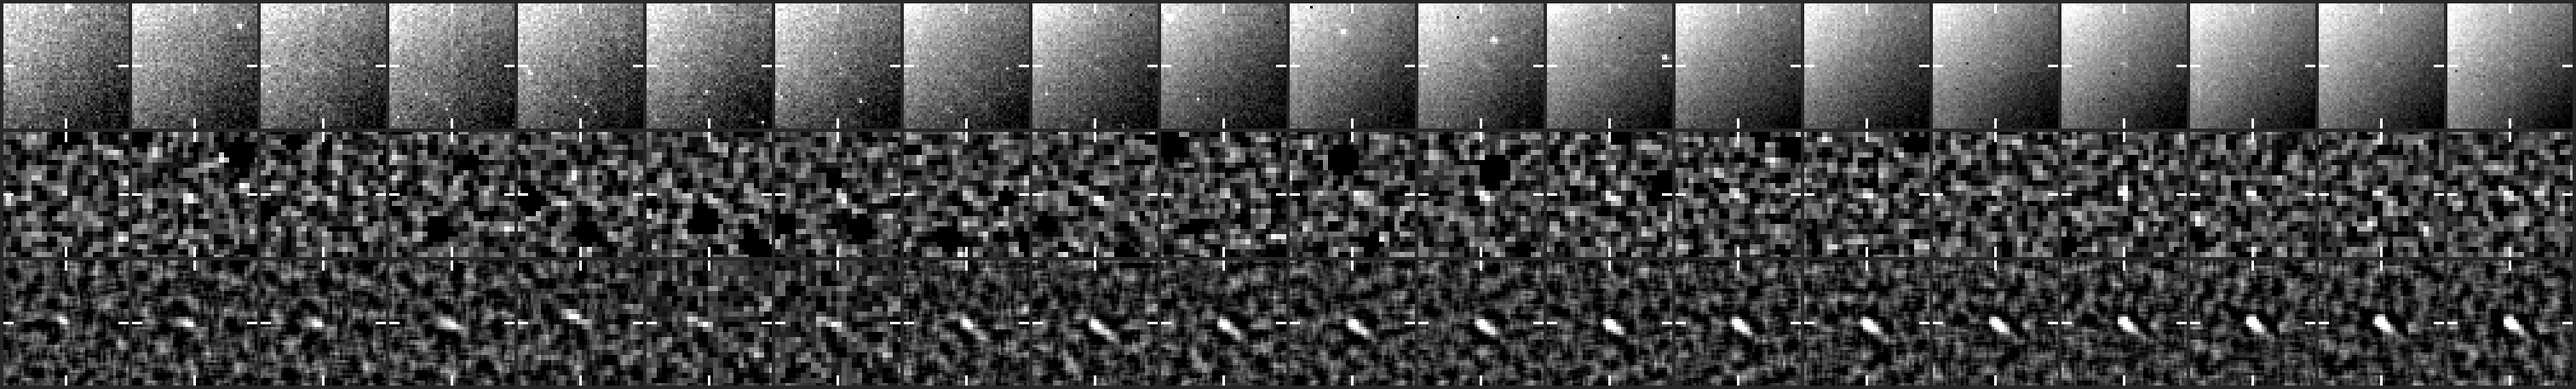
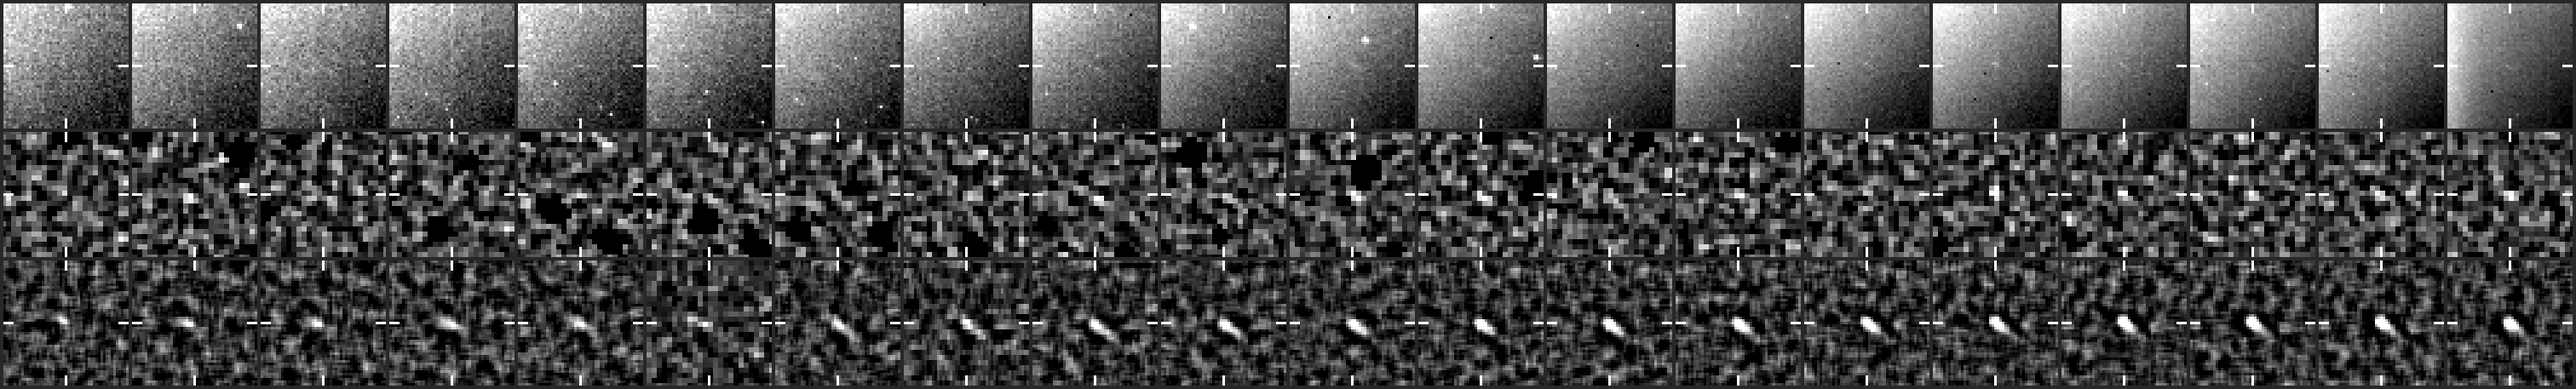
Live find 20261102T1115_1748_1520: hunter's package

Changed region(s): [[0.4352, 0.0, 1.0, 1.0], [0.2798, 0.0, 0.4041, 1.0], [0.1865, 0.0, 0.2487, 1.0]]

diff --git a/results/ccor1/live-finds/20261102T1115_1748_1520/index.html b/results/ccor1/live-finds/20261102T1115_1748_1520/index.html
@@ -1,7 +1,7 @@
 <!doctype html>
 <html lang="en"><head><meta charset="utf-8"><meta name="viewport" content="width=device-width,initial-scale=1"><title>CCOR-1 candidate 20261102T1115_1748_1520</title>
 <meta property="og:title" content="CCOR-1 candidate 20261102T1115_1748_1520">
-<meta property="og:description" content="24 frames, 2026-11-02 11:15 to 17:00 UTC, peak 21 sigma, brightening.">
+<meta property="og:description" content="26 frames, 2026-11-02 11:15 to 17:30 UTC, peak 21 sigma, brightening.">
 <meta property="og:type" content="article">
 <meta name="twitter:card" content="summary_large_image">
 <meta property="og:url" content="https://scottholdren.github.io/sungrazer/results/ccor1/live-finds/20261102T1115_1748_1520/">
@@ -12,13 +12,13 @@
 <style>body{background:#0b0e14;color:#e6e6e6;font:15px/1.5 system-ui,sans-serif;max-width:980px;margin:0 auto;padding:16px}img{max-width:100%;height:auto;display:block;margin:8px 0}table{border-collapse:collapse;font-size:14px}th,td{border-bottom:1px solid #2a3140;padding:3px 10px;text-align:left}pre{background:#141a25;padding:10px;overflow:auto}a{color:#9ecbff}h1{font-size:22px}h2{font-size:17px;margin-top:28px;color:#9ecbff}code{background:#141a25;padding:0 4px}</style></head>
 <body>
 <h1>CCOR-1 candidate 20261102T1115_1748_1520</h1>
-<p><b>24 frames, 2026-11-02 11:15 to 17:00 UTC, peak 21 sigma, brightening.</b></p>
-<ul><li>Detected by the kreutz shift-and-stack search (8 frames stacked along the fitted motion); status candidate, alert tier since 16:00 UTC.</li><li>Motion (-7.1, -3.8) px per 15-min frame, 8.1 px/frame.</li><li>Last position 755 px from the Sun at position angle -40 deg, heading 12 deg off the Sun direction (Kreutz comets in CCOR-1 arrive from the lower right, position angle -10 to -45 deg, and head within ~20 deg of the Sun).</li><li>No CCOR-1 report matches it on the Sungrazer site.</li></ul>
+<p><b>26 frames, 2026-11-02 11:15 to 17:30 UTC, peak 21 sigma, brightening.</b></p>
+<ul><li>Detected by the kreutz shift-and-stack search (8 frames stacked along the fitted motion); status candidate, alert tier since 16:00 UTC.</li><li>Motion (-7.1, -3.8) px per 15-min frame, 8.1 px/frame.</li><li>Last position 739 px from the Sun at position angle -40 deg, heading 12 deg off the Sun direction (Kreutz comets in CCOR-1 arrive from the lower right, position angle -10 to -45 deg, and head within ~20 deg of the Sun).</li><li>No CCOR-1 report matches it on the Sungrazer site.</li></ul>
 <h2>Movie</h2>
 <p>A fixed patch of sky at 2x the camera's resolution: significance maps (stars and corona modelled out), the last 8 maps added along the fitted motion, black below 2.5 sigma. The ring rides the fitted path: green on frames with a measured hit, yellow before the first hit. A real object crosses the patch inside the ring; noise does not travel.</p>
 <p><img alt="movie" src="movie.gif"></p>
 <h2>Full field</h2>
-<p>The Sun's surroundings and the object's path at half resolution, the last frames up to the newest hit: each frame minus the minimum of the previous 24 hours (streamers and stars stay, the static corona and glare cancel), lightly smoothed, no stacking, on a linear scale from -1 sigma of the frame's noise (so the noise shows as grain). The crosshair follows the fitted path, yellow on a measured hit. For where the object sits in the corona and what else is moving; a faint object is easier to judge in the stacked patch above.</p>
+<p>The object's quadrant at half resolution, from just outside the occulter out to the field edge, the last frames up to the newest hit: each frame minus the minimum of the previous 24 hours (streamers and stars stay, the static corona and glare cancel), lightly smoothed, no stacking, on a linear scale from -1 sigma of the frame's noise (so the noise shows as grain). The crosshair follows the fitted path, yellow on a measured hit. For where the object sits in the corona and what else is moving; a faint object is easier to judge in the stacked patch above.</p>
 <p><img alt="full field" src="field.gif"></p>
 <h2>Contact sheet</h2>
 <p>Top: raw frame. Middle: significance map of that frame. Bottom: the detector's view, the last 8 maps stacked along the motion. Ticks mark the predicted position; a comet is a steady dot on the ticks.</p>
@@ -26,7 +26,7 @@
 <p><img alt="stacked cutout around the newest hit" src="thumb.png"></p>
 <h2>Positions</h2>
 <p>2048x1920 full-resolution frame, origin upper left, x right, y down, 0-based (the Sungrazer 'Upper Left' convention). They are the centre of the stacked detection predicted from the fitted motion, good to about a pixel, not per-frame centroids; hunters' measurements tend to fall ~1 px right and up of these.</p>
-<table><tr><th>date</th><th>HHMM</th><th>x</th><th>y</th><th>sigma</th></tr><tr><td>2026-11-02</td><td>1115</td><td>1748</td><td>1520</td><td>8.0</td></tr><tr><td>2026-11-02</td><td>1130</td><td>1740</td><td>1516</td><td>8.5</td></tr><tr><td>2026-11-02</td><td>1145</td><td>1732</td><td>1512</td><td>9.2</td></tr><tr><td>2026-11-02</td><td>1200</td><td>1724</td><td>1508</td><td>8.9</td></tr><tr><td>2026-11-02</td><td>1215</td><td>1718</td><td>1504</td><td>8.8</td></tr><tr><td>2026-11-02</td><td>1230</td><td>1712</td><td>1500</td><td>9.4</td></tr><tr><td>2026-11-02</td><td>1245</td><td>1704</td><td>1498</td><td>8.9</td></tr><tr><td>2026-11-02</td><td>1300</td><td>1696</td><td>1494</td><td>9.1</td></tr><tr><td>2026-11-02</td><td>1315</td><td>1690</td><td>1490</td><td>10.9</td></tr><tr><td>2026-11-02</td><td>1330</td><td>1684</td><td>1486</td><td>11.8</td></tr><tr><td>2026-11-02</td><td>1345</td><td>1676</td><td>1482</td><td>10.6</td></tr><tr><td>2026-11-02</td><td>1400</td><td>1670</td><td>1480</td><td>11.7</td></tr><tr><td>2026-11-02</td><td>1415</td><td>1662</td><td>1474</td><td>14.1</td></tr><tr><td>2026-11-02</td><td>1430</td><td>1656</td><td>1470</td><td>12.4</td></tr><tr><td>2026-11-02</td><td>1445</td><td>1648</td><td>1468</td><td>11.8</td></tr><tr><td>2026-11-02</td><td>1500</td><td>1640</td><td>1464</td><td>11.9</td></tr><tr><td>2026-11-02</td><td>1515</td><td>1634</td><td>1460</td><td>12.1</td></tr><tr><td>2026-11-02</td><td>1530</td><td>1626</td><td>1456</td><td>13.4</td></tr><tr><td>2026-11-02</td><td>1545</td><td>1620</td><td>1452</td><td>13.1</td></tr><tr><td>2026-11-02</td><td>1600</td><td>1612</td><td>1448</td><td>17.9</td></tr><tr><td>2026-11-02</td><td>1615</td><td>1604</td><td>1444</td><td>18.7</td></tr><tr><td>2026-11-02</td><td>1630</td><td>1598</td><td>1440</td><td>16.7</td></tr><tr><td>2026-11-02</td><td>1645</td><td>1590</td><td>1436</td><td>20.6</td></tr><tr><td>2026-11-02</td><td>1700</td><td>1582</td><td>1432</td><td>19.9</td></tr></table>
+<table><tr><th>date</th><th>HHMM</th><th>x</th><th>y</th><th>sigma</th></tr><tr><td>2026-11-02</td><td>1115</td><td>1748</td><td>1520</td><td>8.0</td></tr><tr><td>2026-11-02</td><td>1130</td><td>1740</td><td>1516</td><td>8.5</td></tr><tr><td>2026-11-02</td><td>1145</td><td>1732</td><td>1512</td><td>9.2</td></tr><tr><td>2026-11-02</td><td>1200</td><td>1724</td><td>1508</td><td>8.9</td></tr><tr><td>2026-11-02</td><td>1215</td><td>1718</td><td>1504</td><td>8.8</td></tr><tr><td>2026-11-02</td><td>1230</td><td>1712</td><td>1500</td><td>9.4</td></tr><tr><td>2026-11-02</td><td>1245</td><td>1704</td><td>1498</td><td>8.9</td></tr><tr><td>2026-11-02</td><td>1300</td><td>1696</td><td>1494</td><td>9.1</td></tr><tr><td>2026-11-02</td><td>1315</td><td>1690</td><td>1490</td><td>10.9</td></tr><tr><td>2026-11-02</td><td>1330</td><td>1684</td><td>1486</td><td>11.8</td></tr><tr><td>2026-11-02</td><td>1345</td><td>1676</td><td>1482</td><td>10.6</td></tr><tr><td>2026-11-02</td><td>1400</td><td>1670</td><td>1480</td><td>11.7</td></tr><tr><td>2026-11-02</td><td>1415</td><td>1662</td><td>1474</td><td>14.1</td></tr><tr><td>2026-11-02</td><td>1430</td><td>1656</td><td>1470</td><td>12.4</td></tr><tr><td>2026-11-02</td><td>1445</td><td>1648</td><td>1468</td><td>11.8</td></tr><tr><td>2026-11-02</td><td>1500</td><td>1640</td><td>1464</td><td>11.9</td></tr><tr><td>2026-11-02</td><td>1515</td><td>1634</td><td>1460</td><td>12.1</td></tr><tr><td>2026-11-02</td><td>1530</td><td>1626</td><td>1456</td><td>13.4</td></tr><tr><td>2026-11-02</td><td>1545</td><td>1620</td><td>1452</td><td>13.1</td></tr><tr><td>2026-11-02</td><td>1600</td><td>1612</td><td>1448</td><td>17.9</td></tr><tr><td>2026-11-02</td><td>1615</td><td>1604</td><td>1444</td><td>18.7</td></tr><tr><td>2026-11-02</td><td>1630</td><td>1598</td><td>1440</td><td>16.7</td></tr><tr><td>2026-11-02</td><td>1645</td><td>1590</td><td>1436</td><td>20.6</td></tr><tr><td>2026-11-02</td><td>1700</td><td>1582</td><td>1432</td><td>19.9</td></tr><tr><td>2026-11-02</td><td>1715</td><td>1578</td><td>1428</td><td>15.7</td></tr><tr><td>2026-11-02</td><td>1730</td><td>1568</td><td>1424</td><td>20.8</td></tr></table>
 <p>Form layout (HHMM x y):</p>
 <pre>1115 1748 1520
 1130 1740 1516
@@ -51,9 +51,11 @@
 1615 1604 1444
 1630 1598 1440
 1645 1590 1436
-1700 1582 1432</pre>
+1700 1582 1432
+1715 1578 1428
+1730 1568 1424</pre>
 <h2>Movie frames</h2>
 <p>Sigma inside the ring on the fitted position vs the brightest 0.1% of the whole patch. A real object sits clearly above the tail.</p>
-<table><tr><th>frame</th><th>ring</th><th>tail</th><th></th></tr><tr><td>20261102T101525</td><td>10.1</td><td>5.3</td><td></td></tr><tr><td>20261102T103025</td><td>8.5</td><td>5.3</td><td></td></tr><tr><td>20261102T104525</td><td>8.7</td><td>5.1</td><td></td></tr><tr><td>20261102T110025</td><td>7.8</td><td>5.2</td><td></td></tr><tr><td>20261102T111525</td><td>8.4</td><td>5.3</td><td>hit</td></tr><tr><td>20261102T113025</td><td>10.5</td><td>5.0</td><td>hit</td></tr><tr><td>20261102T114525</td><td>10.5</td><td>5.2</td><td>hit</td></tr><tr><td>20261102T120025</td><td>9.0</td><td>5.3</td><td>hit</td></tr><tr><td>20261102T121525</td><td>9.7</td><td>5.1</td><td>hit</td></tr><tr><td>20261102T123025</td><td>9.6</td><td>5.0</td><td>hit</td></tr><tr><td>20261102T124525</td><td>9.7</td><td>5.5</td><td>hit</td></tr><tr><td>20261102T130025</td><td>12.9</td><td>5.4</td><td>hit</td></tr><tr><td>20261102T131525</td><td>12.0</td><td>5.2</td><td>hit</td></tr><tr><td>20261102T133025</td><td>12.6</td><td>5.3</td><td>hit</td></tr><tr><td>20261102T134525</td><td>14.7</td><td>5.2</td><td>hit</td></tr><tr><td>20261102T140025</td><td>13.4</td><td>5.4</td><td>hit</td></tr><tr><td>20261102T141525</td><td>16.0</td><td>5.5</td><td>hit</td></tr><tr><td>20261102T143025</td><td>11.3</td><td>5.3</td><td>hit</td></tr><tr><td>20261102T144525</td><td>14.4</td><td>5.5</td><td>hit</td></tr><tr><td>20261102T150025</td><td>13.7</td><td>5.3</td><td>hit</td></tr><tr><td>20261102T151525</td><td>16.0</td><td>5.6</td><td>hit</td></tr><tr><td>20261102T153025</td><td>15.5</td><td>5.3</td><td>hit</td></tr><tr><td>20261102T154525</td><td>18.9</td><td>5.6</td><td>hit</td></tr><tr><td>20261102T160025</td><td>20.3</td><td>5.2</td><td>hit</td></tr><tr><td>20261102T161525</td><td>20.0</td><td>5.2</td><td>hit</td></tr><tr><td>20261102T163025</td><td>22.1</td><td>5.1</td><td>hit</td></tr><tr><td>20261102T164525</td><td>17.5</td><td>5.3</td><td>hit</td></tr><tr><td>20261102T170025</td><td>19.6</td><td>5.3</td><td>hit</td></tr></table>
-<p><i>Written 2026-11-02 17:48 UTC.</i></p>
+<table><tr><th>frame</th><th>ring</th><th>tail</th><th></th></tr><tr><td>20261102T101525</td><td>7.7</td><td>5.3</td><td></td></tr><tr><td>20261102T103025</td><td>10.2</td><td>5.2</td><td></td></tr><tr><td>20261102T104525</td><td>7.6</td><td>5.2</td><td></td></tr><tr><td>20261102T110025</td><td>9.4</td><td>5.1</td><td></td></tr><tr><td>20261102T111525</td><td>8.2</td><td>5.4</td><td>hit</td></tr><tr><td>20261102T113025</td><td>7.8</td><td>5.3</td><td>hit</td></tr><tr><td>20261102T114525</td><td>11.0</td><td>5.2</td><td>hit</td></tr><tr><td>20261102T120025</td><td>9.7</td><td>5.3</td><td>hit</td></tr><tr><td>20261102T121525</td><td>10.6</td><td>5.2</td><td>hit</td></tr><tr><td>20261102T123025</td><td>9.8</td><td>5.3</td><td>hit</td></tr><tr><td>20261102T124525</td><td>11.1</td><td>5.2</td><td>hit</td></tr><tr><td>20261102T130025</td><td>9.9</td><td>5.4</td><td>hit</td></tr><tr><td>20261102T131525</td><td>13.1</td><td>5.2</td><td>hit</td></tr><tr><td>20261102T133025</td><td>11.0</td><td>5.1</td><td>hit</td></tr><tr><td>20261102T134525</td><td>14.0</td><td>5.2</td><td>hit</td></tr><tr><td>20261102T140025</td><td>15.9</td><td>5.3</td><td>hit</td></tr><tr><td>20261102T141525</td><td>13.5</td><td>5.5</td><td>hit</td></tr><tr><td>20261102T143025</td><td>15.3</td><td>5.4</td><td>hit</td></tr><tr><td>20261102T144525</td><td>12.5</td><td>5.4</td><td>hit</td></tr><tr><td>20261102T150025</td><td>14.3</td><td>5.6</td><td>hit</td></tr><tr><td>20261102T151525</td><td>15.4</td><td>5.4</td><td>hit</td></tr><tr><td>20261102T153025</td><td>15.4</td><td>5.5</td><td>hit</td></tr><tr><td>20261102T154525</td><td>17.2</td><td>5.2</td><td>hit</td></tr><tr><td>20261102T160025</td><td>21.6</td><td>5.2</td><td>hit</td></tr><tr><td>20261102T161525</td><td>20.7</td><td>5.4</td><td>hit</td></tr><tr><td>20261102T163025</td><td>21.8</td><td>5.2</td><td>hit</td></tr><tr><td>20261102T164525</td><td>23.2</td><td>5.3</td><td>hit</td></tr><tr><td>20261102T170025</td><td>18.4</td><td>5.2</td><td>hit</td></tr><tr><td>20261102T171525</td><td>21.8</td><td>5.3</td><td>hit</td></tr><tr><td>20261102T173025</td><td>21.0</td><td>5.4</td><td>hit</td></tr></table>
+<p><i>Written 2026-11-02 17:55 UTC.</i></p>
 </body></html>

diff --git a/results/ccor1/live-finds/20261102T1115_1748_1520/README.md b/results/ccor1/live-finds/20261102T1115_1748_1520/README.md
@@ -1,10 +1,10 @@
 # CCOR-1 candidate 20261102T1115_1748_1520
 
-**24 frames, 2026-11-02 11:15 to 17:00 UTC, peak 21 sigma, brightening.**
+**26 frames, 2026-11-02 11:15 to 17:30 UTC, peak 21 sigma, brightening.**
 
 - Detected by the kreutz shift-and-stack search (8 frames stacked along the fitted motion); status candidate, alert tier since 16:00 UTC.
 - Motion (-7.1, -3.8) px per 15-min frame, 8.1 px/frame.
-- Last position 755 px from the Sun at position angle -40 deg, heading 12 deg off the Sun direction (Kreutz comets in CCOR-1 arrive from the lower right, position angle -10 to -45 deg, and head within ~20 deg of the Sun).
+- Last position 739 px from the Sun at position angle -40 deg, heading 12 deg off the Sun direction (Kreutz comets in CCOR-1 arrive from the lower right, position angle -10 to -45 deg, and head within ~20 deg of the Sun).
 - No CCOR-1 report matches it on the Sungrazer site.
 
 ## Movie
@@ -15,7 +15,7 @@ A fixed patch of sky at 2x the camera's resolution: significance maps (stars and
 
 ## Full field
 
-The Sun's surroundings and the object's path at half resolution, the last frames up to the newest hit: each frame minus the minimum of the previous 24 hours (streamers and stars stay, the static corona and glare cancel), lightly smoothed, no stacking, on a linear scale from -1 sigma of the frame's noise (so the noise shows as grain). The crosshair follows the fitted path, yellow on a measured hit. For where the object sits in the corona and what else is moving; a faint object is easier to judge in the stacked patch above.
+The object's quadrant at half resolution, from just outside the occulter out to the field edge, the last frames up to the newest hit: each frame minus the minimum of the previous 24 hours (streamers and stars stay, the static corona and glare cancel), lightly smoothed, no stacking, on a linear scale from -1 sigma of the frame's noise (so the noise shows as grain). The crosshair follows the fitted path, yellow on a measured hit. For where the object sits in the corona and what else is moving; a faint object is easier to judge in the stacked patch above.
 
 ![full field](field.gif)
 
@@ -57,6 +57,8 @@ Top: raw frame. Middle: significance map of that frame. Bottom: the detector's v
 | 2026-11-02 | 1630 | 1598 | 1440 | 16.7 |
 | 2026-11-02 | 1645 | 1590 | 1436 | 20.6 |
 | 2026-11-02 | 1700 | 1582 | 1432 | 19.9 |
+| 2026-11-02 | 1715 | 1578 | 1428 | 15.7 |
+| 2026-11-02 | 1730 | 1568 | 1424 | 20.8 |
 
 Form layout (HHMM x y):
 
@@ -85,6 +87,8 @@ Form layout (HHMM x y):
 1630 1598 1440
 1645 1590 1436
 1700 1582 1432
+1715 1578 1428
+1730 1568 1424
 ```
 
 ## Movie frames
@@ -93,33 +97,35 @@ Sigma inside the ring on the fitted position vs the brightest 0.1% of the whole 
 
 | frame | ring | tail | |
 |---|---|---|---|
-| 20261102T101525 | 10.1 | 5.3 |  |
-| 20261102T103025 | 8.5 | 5.3 |  |
-| 20261102T104525 | 8.7 | 5.1 |  |
-| 20261102T110025 | 7.8 | 5.2 |  |
-| 20261102T111525 | 8.4 | 5.3 | hit |
-| 20261102T113025 | 10.5 | 5.0 | hit |
-| 20261102T114525 | 10.5 | 5.2 | hit |
-| 20261102T120025 | 9.0 | 5.3 | hit |
-| 20261102T121525 | 9.7 | 5.1 | hit |
-| 20261102T123025 | 9.6 | 5.0 | hit |
-| 20261102T124525 | 9.7 | 5.5 | hit |
-| 20261102T130025 | 12.9 | 5.4 | hit |
-| 20261102T131525 | 12.0 | 5.2 | hit |
-| 20261102T133025 | 12.6 | 5.3 | hit |
-| 20261102T134525 | 14.7 | 5.2 | hit |
-| 20261102T140025 | 13.4 | 5.4 | hit |
-| 20261102T141525 | 16.0 | 5.5 | hit |
-| 20261102T143025 | 11.3 | 5.3 | hit |
-| 20261102T144525 | 14.4 | 5.5 | hit |
-| 20261102T150025 | 13.7 | 5.3 | hit |
-| 20261102T151525 | 16.0 | 5.6 | hit |
-| 20261102T153025 | 15.5 | 5.3 | hit |
-| 20261102T154525 | 18.9 | 5.6 | hit |
-| 20261102T160025 | 20.3 | 5.2 | hit |
-| 20261102T161525 | 20.0 | 5.2 | hit |
-| 20261102T163025 | 22.1 | 5.1 | hit |
-| 20261102T164525 | 17.5 | 5.3 | hit |
-| 20261102T170025 | 19.6 | 5.3 | hit |
+| 20261102T101525 | 7.7 | 5.3 |  |
+| 20261102T103025 | 10.2 | 5.2 |  |
+| 20261102T104525 | 7.6 | 5.2 |  |
+| 20261102T110025 | 9.4 | 5.1 |  |
+| 20261102T111525 | 8.2 | 5.4 | hit |
+| 20261102T113025 | 7.8 | 5.3 | hit |
+| 20261102T114525 | 11.0 | 5.2 | hit |
+| 20261102T120025 | 9.7 | 5.3 | hit |
+| 20261102T121525 | 10.6 | 5.2 | hit |
+| 20261102T123025 | 9.8 | 5.3 | hit |
+| 20261102T124525 | 11.1 | 5.2 | hit |
+| 20261102T130025 | 9.9 | 5.4 | hit |
+| 20261102T131525 | 13.1 | 5.2 | hit |
+| 20261102T133025 | 11.0 | 5.1 | hit |
+| 20261102T134525 | 14.0 | 5.2 | hit |
+| 20261102T140025 | 15.9 | 5.3 | hit |
+| 20261102T141525 | 13.5 | 5.5 | hit |
+| 20261102T143025 | 15.3 | 5.4 | hit |
+| 20261102T144525 | 12.5 | 5.4 | hit |
+| 20261102T150025 | 14.3 | 5.6 | hit |
+| 20261102T151525 | 15.4 | 5.4 | hit |
+| 20261102T153025 | 15.4 | 5.5 | hit |
+| 20261102T154525 | 17.2 | 5.2 | hit |
+| 20261102T160025 | 21.6 | 5.2 | hit |
+| 20261102T161525 | 20.7 | 5.4 | hit |
+| 20261102T163025 | 21.8 | 5.2 | hit |
+| 20261102T164525 | 23.2 | 5.3 | hit |
+| 20261102T170025 | 18.4 | 5.2 | hit |
+| 20261102T171525 | 21.8 | 5.3 | hit |
+| 20261102T173025 | 21.0 | 5.4 | hit |
 
-*Written 2026-11-02 17:48 UTC.*
+*Written 2026-11-02 17:55 UTC.*
